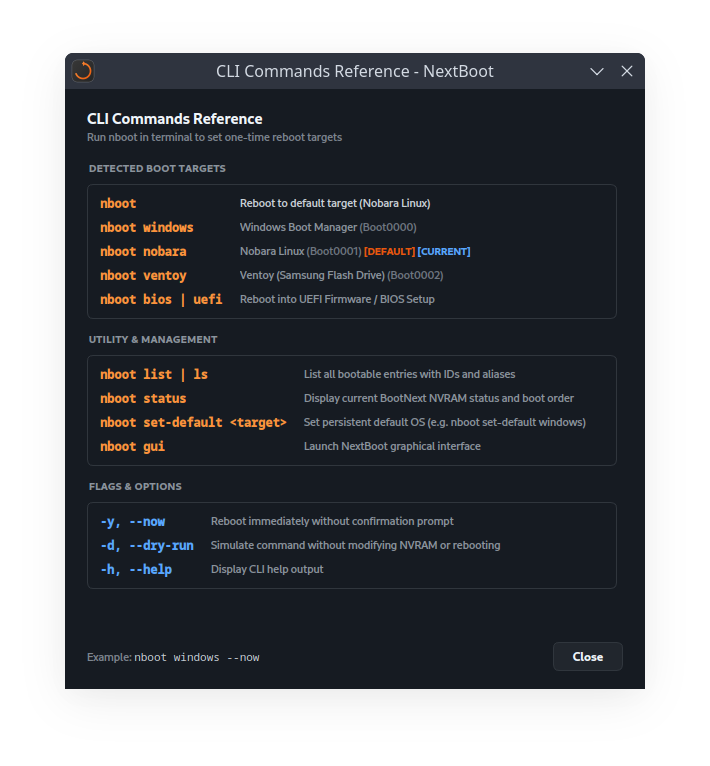
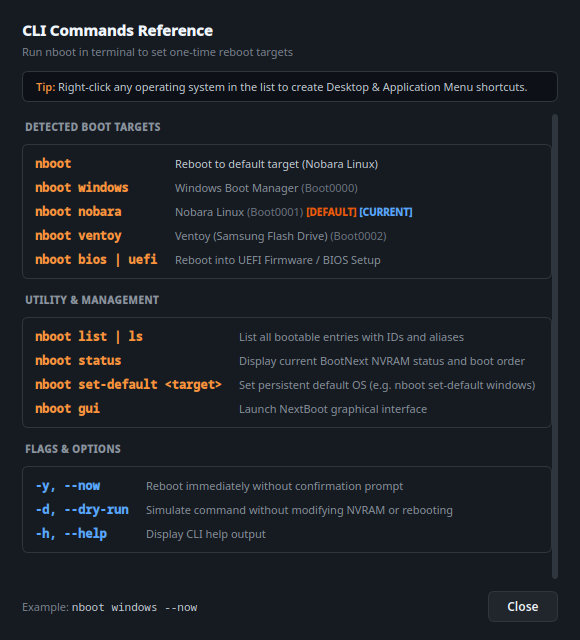
Add right-click shortcut creation tip to CLI help modal

diff --git a/nextboot_gui.py b/nextboot_gui.py
@@ -221,7 +221,7 @@ class CliHelpDialog(QDialog):
         super().__init__(parent)
         self.mgr = mgr
         self.setWindowTitle("CLI Commands Reference - NextBoot")
-        self.setFixedSize(580, 600)
+        self.setFixedSize(580, 640)
         self.setStyleSheet("""
             QDialog {
                 background-color: #161b22;
@@ -299,6 +299,17 @@ class CliHelpDialog(QDialog):
         header_layout.addWidget(title)
         header_layout.addWidget(subtitle)
         main_layout.addLayout(header_layout)
+
+        tip_box = QLabel(
+            "<span style='color: #fb923c; font-weight: 600;'>Tip:</span> "
+            "<span style='color: #c9d1d9;'>Right-click any operating system in the list to create Desktop & Application Menu shortcuts.</span>",
+            self,
+        )
+        tip_box.setTextFormat(Qt.TextFormat.RichText)
+        tip_box.setStyleSheet(
+            "background-color: #0d1117; border: 1px solid #30363d; border-radius: 6px; padding: 7px 10px; font-size: 11px;"
+        )
+        main_layout.addWidget(tip_box)
 
         # Scroll Area
         scroll = QScrollArea(self)
